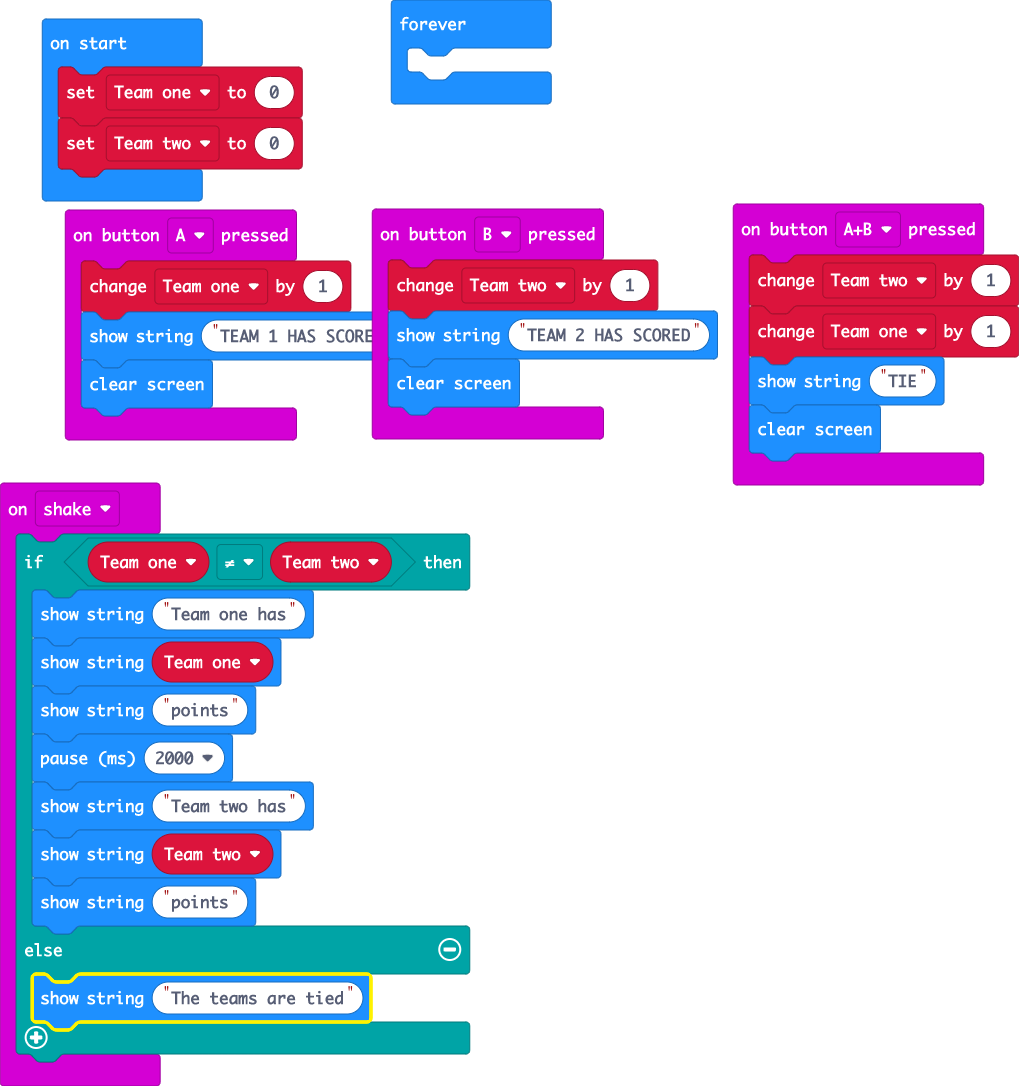
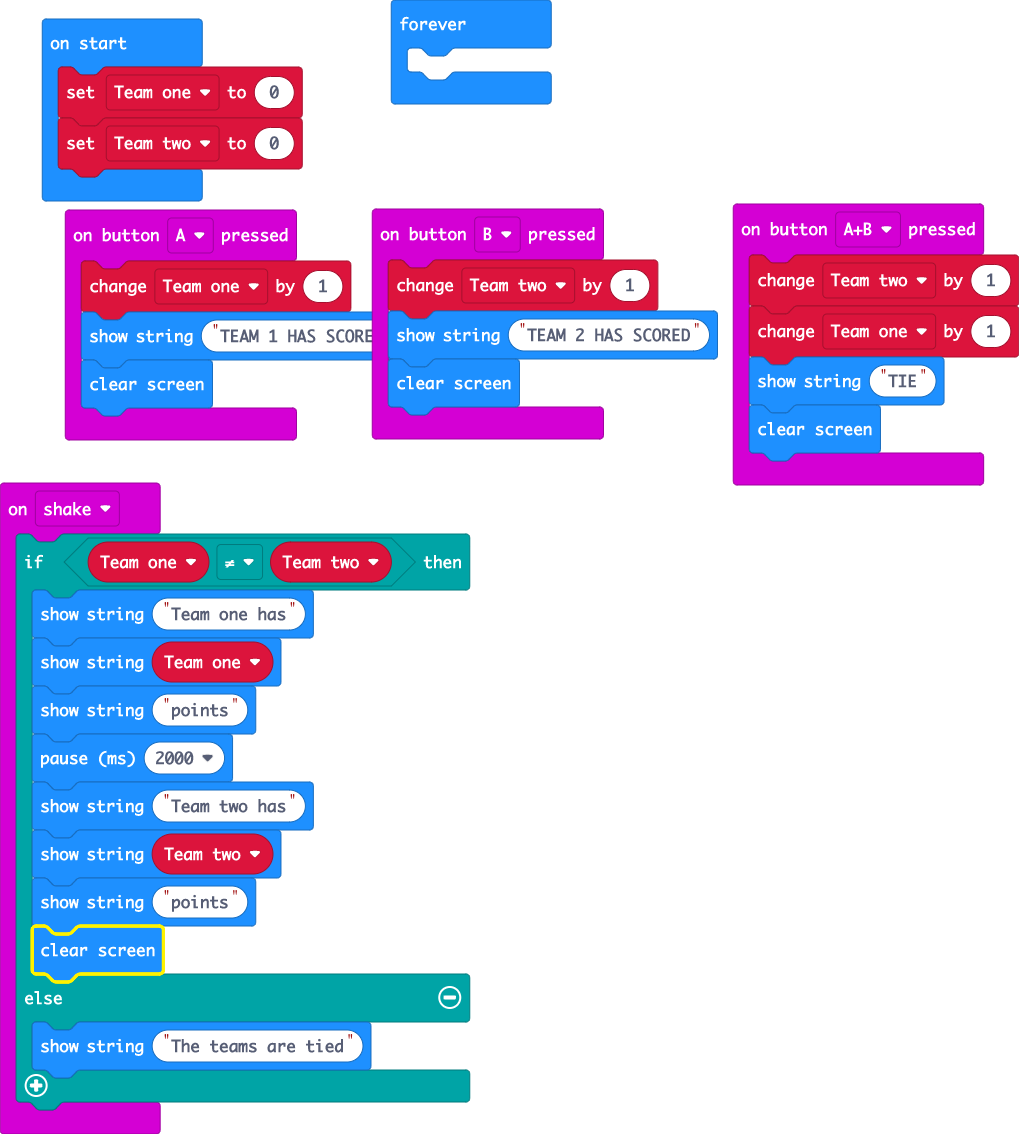
Update main.blocks, main.ts

Changed region(s): [[0.0, 0.0304, 0.6997, 0.9724], [0.6997, 0.1519, 1.0, 0.4558], [0.3955, 0.0, 0.5476, 0.1215]]

diff --git a/main.ts b/main.ts
@@ -23,6 +23,7 @@ input.onGesture(Gesture.Shake, function () {
         basic.showString("Team two has")
         basic.showString("" + (Team_two))
         basic.showString("points")
+        basic.clearScreen()
     } else {
         basic.showString("The teams are tied")
     }
